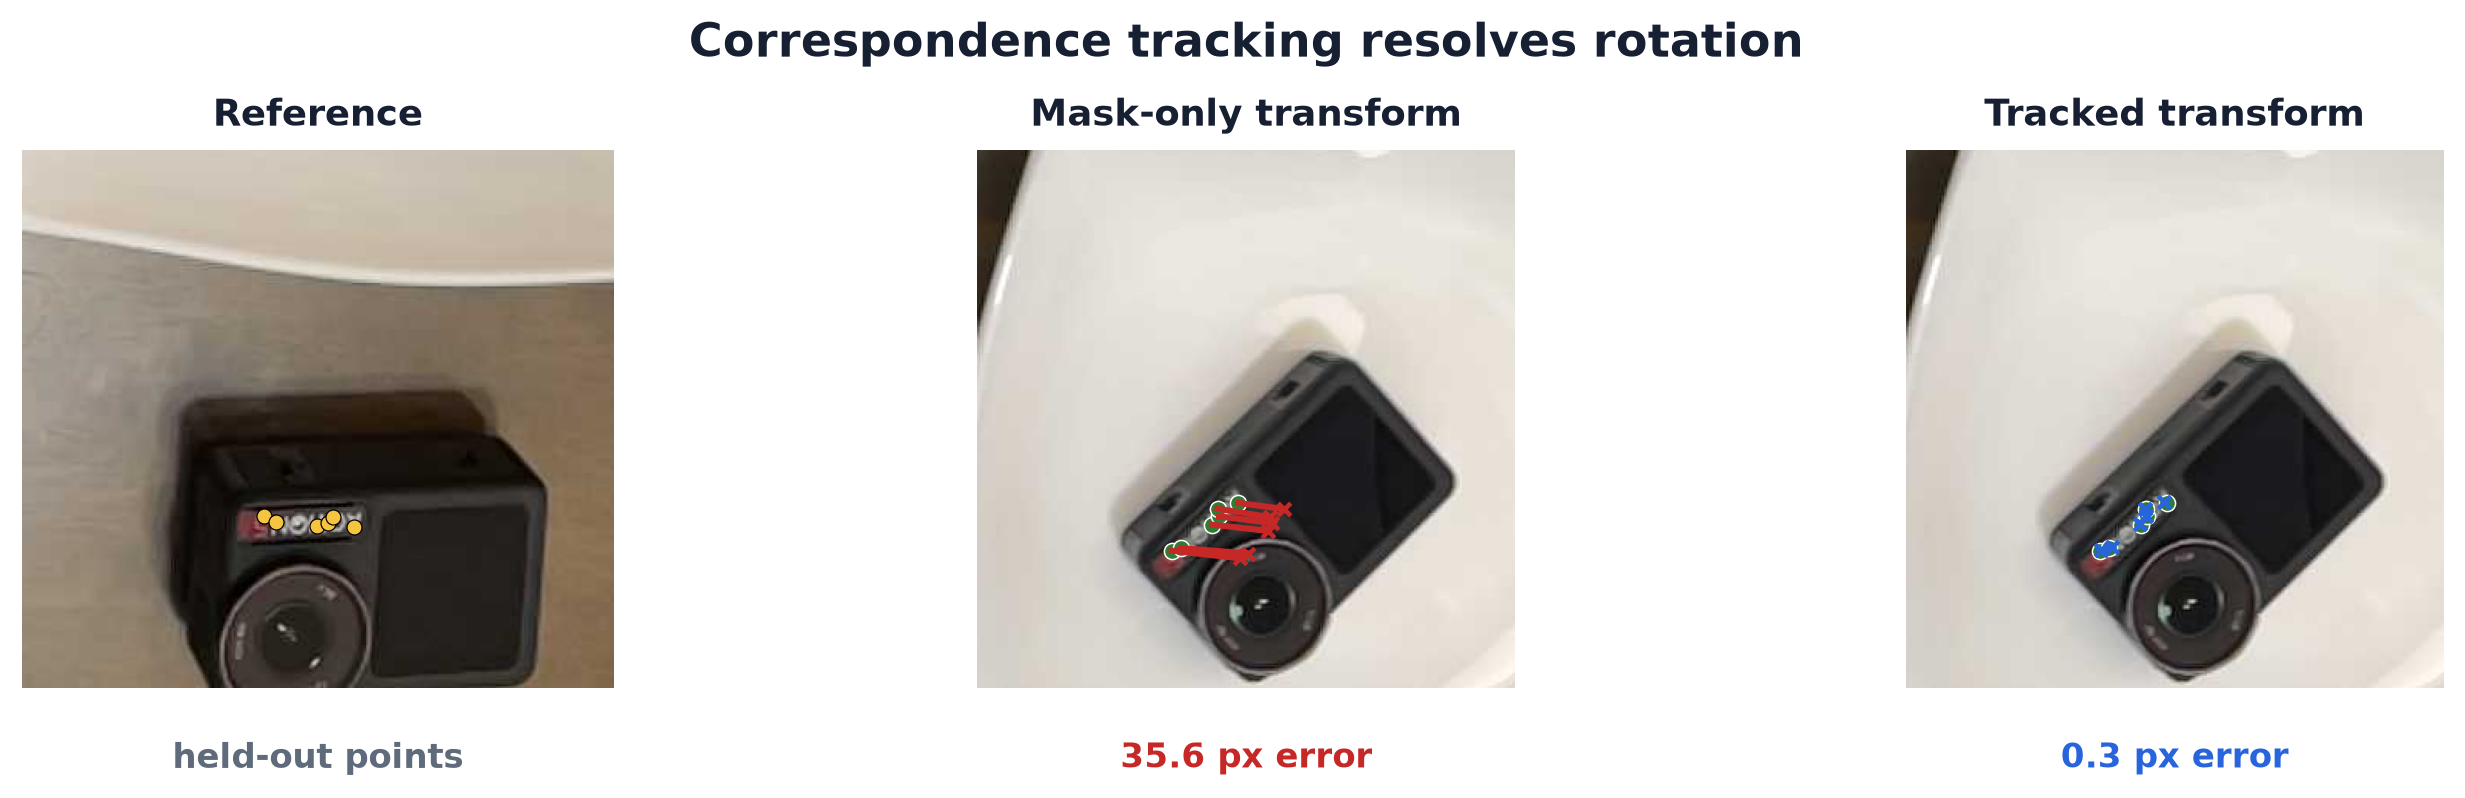
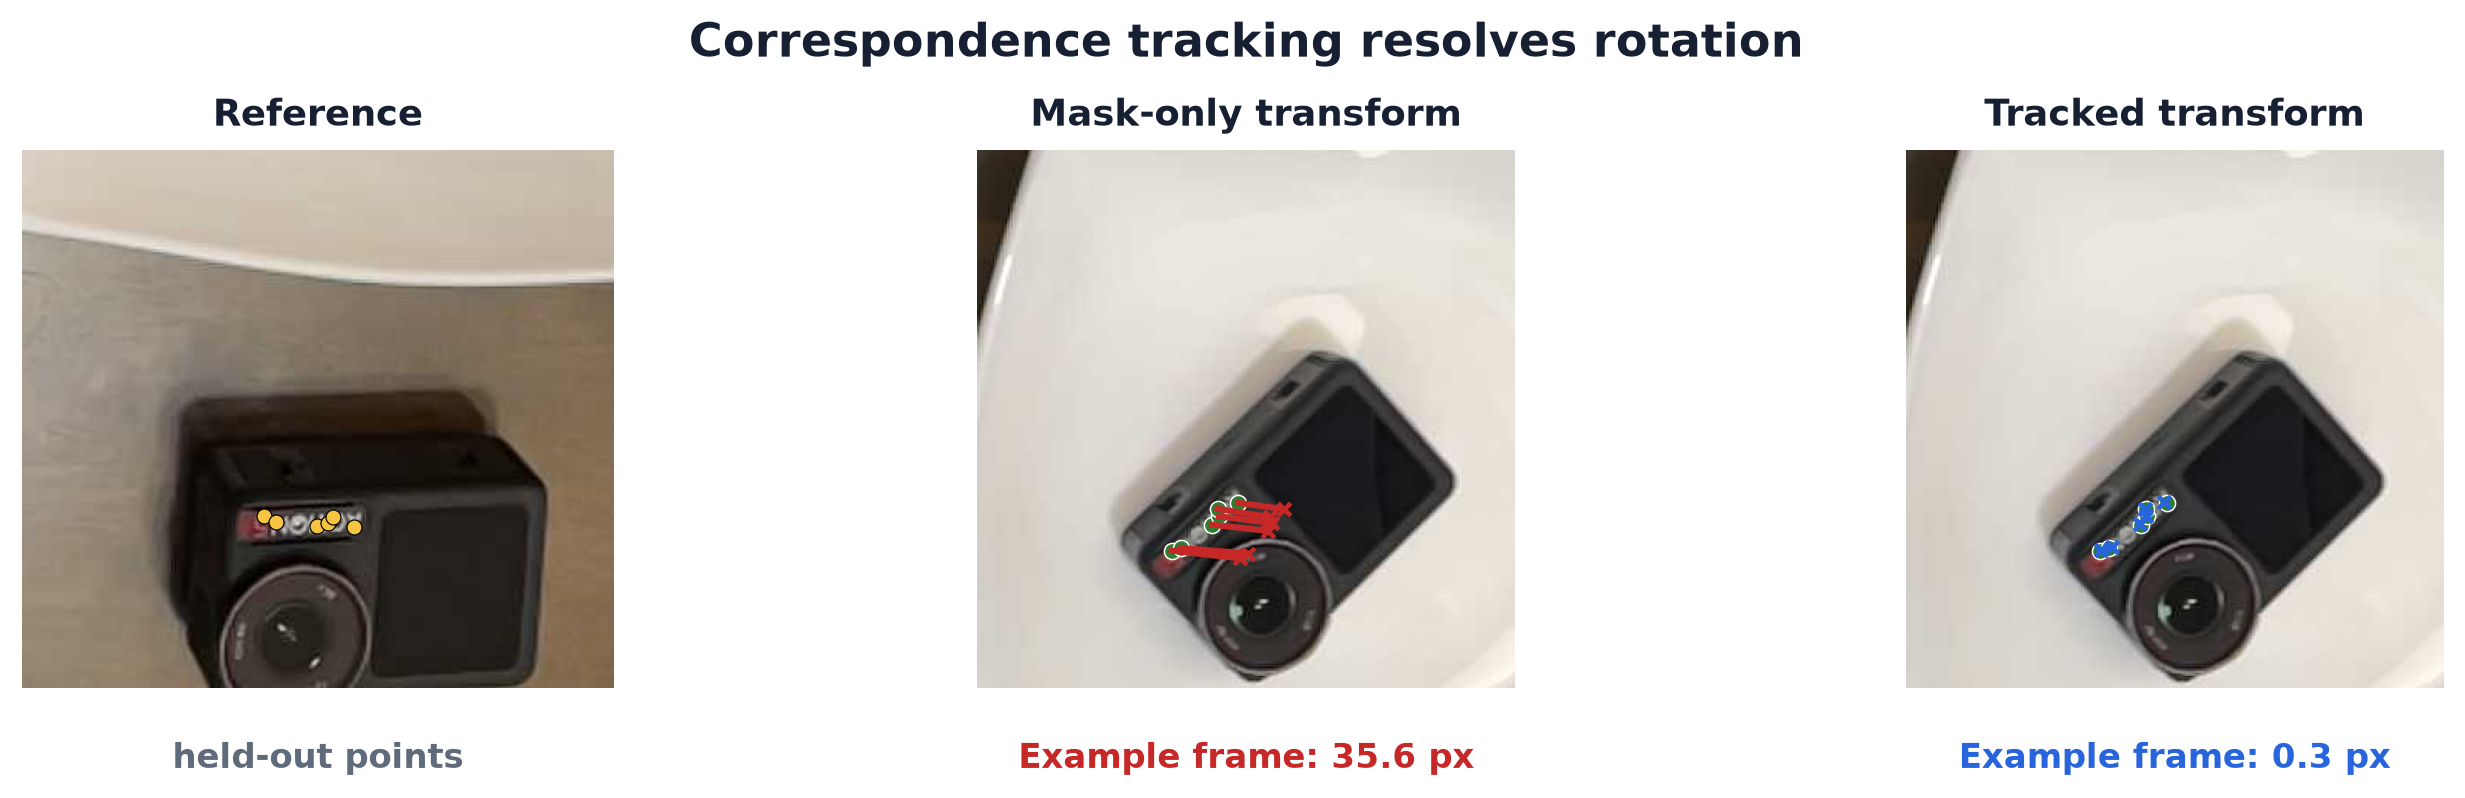
Clarify README metrics and SE3 evidence

Changed region(s): [[0.7809, 0.9323, 0.9684, 0.9624], [0.4061, 0.9323, 0.5935, 0.9624]]

diff --git a/scripts/generate_readme_figures.py b/scripts/generate_readme_figures.py
@@ -194,8 +194,18 @@ def tracking_figure() -> None:
     fig, axes = plt.subplots(1, 3, figsize=(12.6, 3.65))
     panels = [
         (reference, "Reference", "held-out points", None),
-        (observed, "Mask-only transform", "35.6 px error", baseline_prediction),
-        (observed, "Tracked transform", "0.3 px error", tracked_prediction),
+        (
+            observed,
+            "Mask-only transform",
+            "Example frame: 35.6 px",
+            baseline_prediction,
+        ),
+        (
+            observed,
+            "Tracked transform",
+            "Example frame: 0.3 px",
+            tracked_prediction,
+        ),
     ]
     for index, (axis, (image, title, metric, prediction)) in enumerate(
         zip(axes, panels, strict=True)
@@ -278,18 +288,28 @@ def h2o_figure() -> None:
 
     ax = axes[1]
     ax.plot(*place_xyz.T, color=BLUE, lw=2.5, label="Place translation")
-    sample = np.linspace(0, len(pour_motion) - 1, 5, dtype=int)
+    sample = np.linspace(0, len(pour_motion) - 1, 4, dtype=int)
     base = 100 * pour_motion[:, :3, 3]
     ax.plot(*base.T, color=ORANGE, lw=2.2, label="Pour SE(3)")
-    for idx in sample:
+    axis_colors = (RED, GREEN, BLUE)
+    for frame_number, idx in enumerate(sample):
         origin = base[idx]
-        direction = 2.7 * pour_motion[idx, :3, 2]
-        ax.quiver(*origin, *direction, color=ORANGE, linewidth=1.3, arrow_length_ratio=0.25)
+        rotation = pour_motion[idx, :3, :3]
+        for axis_index, axis_color in enumerate(axis_colors):
+            direction = 2.5 * rotation[:, axis_index]
+            ax.quiver(
+                *origin,
+                *direction,
+                color=axis_color,
+                linewidth=1.5,
+                arrow_length_ratio=0.24,
+            )
+        ax.text(*origin, f"R{frame_number}", fontsize=7.5, color=INK, fontweight="bold")
     ax.set_title("2  Recovered skill", fontsize=11.5, fontweight="bold", color=INK)
     ax.text2D(
         0.5,
         -0.10,
-        "object-relative SE(3) · cm",
+        "RGB axes: changing orientation · XYZ-only holds R0",
         transform=ax.transAxes,
         ha="center",
         fontsize=9,

diff --git a/scripts/evaluate_hoi4d_whole_pipeline.py b/scripts/evaluate_hoi4d_whole_pipeline.py
@@ -298,7 +298,7 @@ def plot_matrix(rows: list[dict[str, Any]]) -> None:
                 fontsize=8,
             )
     axis.set_title(
-        "Cross-action pipeline gates: later stages require the action semantics",
+        "Where cross-action transfer breaks",
         loc="left",
         fontweight="bold",
     )

diff --git a/README.md b/README.md
@@ -2,7 +2,7 @@
 
 # OneVideo2Policy
 
-### From one human demonstration to robot training data with lightweight 3D perception, SE(3) skill transfer, and closed-loop evaluation
+### From one human demonstration to robot training data and closed-loop policies
 
 [![Python](https://img.shields.io/badge/Python-3.10%2B-3776AB?logo=python&logoColor=white)](https://www.python.org/)
 [![Tests](https://img.shields.io/badge/tests-78%20passing-2EA44F)](#reproduce-the-results)
@@ -35,11 +35,12 @@ stops. All robot executions reported here are in simulation.
 
 ## What this project shows
 
-- **Resource-efficient data generation:** SAM2.1 Small, tracked correspondences, RGB-D
-  geometry, Gaussian splats, and a 2.61M-parameter policy run on the local machine.
+- **Resource-efficient data generation:** the full pipeline uses lightweight perception,
+  RGB-D geometry, Gaussian appearance reconstruction, and a 2.61M-parameter policy
+  designed to run locally.
 - **Synthetic coverage improves robustness:** combined-shift success rises from **6% to
-  82%** as pose, appearance, camera, and joint perturbations are added. Across five
-  training seeds, the result is **76.0 ± 5.8%**.
+  82%** as object-pose, appearance, camera, and combined perturbations are added. Across
+  five training seeds, the result is **76.0 ± 5.8%**.
 - **The action representation matters:** the H2O Pour orientation segment succeeds
   **20/20** with SE(3) and **0/20** with XYZ-only transfer. Rigid Place is supported;
   articulated lid and door actions remain outside the implemented skill model.
@@ -52,7 +53,7 @@ stops. All robot executions reported here are in simulation.
 | Five-seed repeatability | **76.0 ± 5.8%**, 190/250 |
 | H2O Place data and execution | **100/100** demos, **20/20** estimated-translation runs |
 | H2O Pour orientation transfer | SE(3) **20/20**, XYZ **0/20** |
-| Harder HOI4D actions | **0/4** strict end-to-end passes; articulated skills unsupported |
+| Harder HOI4D actions | **0/4** strict E2E; failures expose target, orientation, and articulation gaps |
 
 Machine-readable measurements are committed under
 [`docs/experiments`](docs/experiments).
@@ -161,6 +162,7 @@ Protocols and data: [whole-pipeline study](docs/hoi4d-whole-pipeline-study.md),
 
 Across 13 frames and 82 held-out correspondences, tracked fitting reduces median
 image-plane error from **34.89 px to 0.70 px** and recovers a median **−41.7°** rotation.
+The figure shows one representative frame; these values are the aggregate medians.
 
 ### Why not use a learned mesh for physics?
 
@@ -265,9 +267,9 @@ measurements and README figures are committed for review.
 - [robosuite](https://robosuite.ai/)
 - [MuJoCo](https://mujoco.org/)
 
-This is an independent reproduction and is not affiliated with the referenced authors
-or projects. Third-party models and datasets are not vendored; follow their licenses and
-access terms.
+This is an independent research implementation inspired by Video2Robo and is not
+affiliated with its authors or the referenced projects. Third-party models and datasets
+are not vendored; follow their licenses and access terms.
 
 ## License
 
